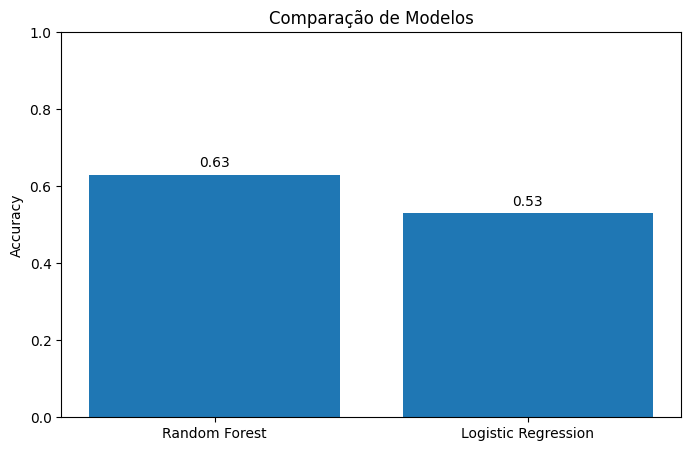
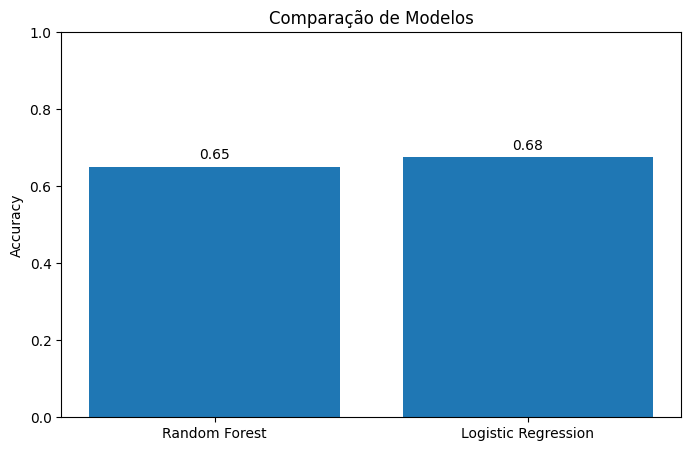
Atualização dashboard e deploy

Changed region(s): [[0.5774, 0.3104, 0.9421, 0.4967], [0.1216, 0.3104, 0.4863, 0.4035]]

diff --git a/src/preprocessamento.py b/src/preprocessamento.py
@@ -1,7 +1,6 @@
 import pandas as pd
 from sklearn.preprocessing import LabelEncoder
 
-
 # ==========================================
 # CARREGAR DADOS
 # ==========================================
@@ -49,38 +48,172 @@ def limpar_dados(df):
 
 def preparar_dados(df):
 
+    # ======================================
+    # REMOVER NULOS
+    # ======================================
+
     df = df.dropna()
 
-    # encoders
-    le_escolaridade = LabelEncoder()
-    le_setor = LabelEncoder()
-    le_regiao = LabelEncoder()
-    le_risco = LabelEncoder()
+    # ======================================
+    # AJUSTAR TEXTO
+    # ======================================
 
-    # transformar categorias em números
-    df["escolaridade"] = le_escolaridade.fit_transform(
+    colunas_texto = [
+        "escolaridade",
+        "setor",
+        "regiao",
+        "risco_automacao"
+    ]
+
+    for coluna in colunas_texto:
+
+        df[coluna] = (
+            df[coluna]
+            .astype(str)
+            .str.strip()
+        )
+
+    # ======================================
+    # CORRIGIR CODIFICAÇÃO
+    # ======================================
+
+    df["escolaridade"] = (
         df["escolaridade"]
+        .replace({
+            "MÃ©dio": "Médio",
+            "TÃ©cnico": "Técnico",
+            "PÃ³s-graduaÃ§Ã£o": "Pós-graduação"
+        })
     )
 
-    df["setor"] = le_setor.fit_transform(
+    df["setor"] = (
         df["setor"]
+        .replace({
+            "LogÃstica": "Logística",
+            "EducaÃ§Ã£o": "Educação",
+            "SaÃºde": "Saúde",
+            "IndÃºstria": "Indústria"
+        })
     )
 
-    df["regiao"] = le_regiao.fit_transform(
-        df["regiao"]
-    )
-
-    df["risco_automacao"] = le_risco.fit_transform(
+    df["risco_automacao"] = (
         df["risco_automacao"]
+        .replace({
+            "MÃ©dio": "Médio"
+        })
     )
+
+    # ======================================
+    # MAPEAR ESCOLARIDADE
+    # ======================================
+
+    escolaridade_map = {
+        "Fundamental": 0,
+        "Médio": 1,
+        "Técnico": 2,
+        "Superior": 3,
+        "Pós-graduação": 4
+    }
+
+    df["escolaridade"] = (
+        df["escolaridade"]
+        .map(escolaridade_map)
+    )
+
+    # ======================================
+    # MAPEAR SETOR
+    # ======================================
+
+    setor_map = {
+        "Administrativo": 0,
+        "Financeiro": 1,
+        "Logística": 2,
+        "Tecnologia": 3,
+        "Saúde": 4,
+        "Educação": 5,
+        "Indústria": 6
+    }
+
+    df["setor"] = (
+        df["setor"]
+        .map(setor_map)
+    )
+
+    # ======================================
+    # MAPEAR REGIÃO
+    # ======================================
+
+    regiao_map = {
+        "Norte": 0,
+        "Nordeste": 1,
+        "Centro-Oeste": 2,
+        "Sudeste": 3,
+        "Sul": 4
+    }
+
+    df["regiao"] = (
+        df["regiao"]
+        .map(regiao_map)
+    )
+
+    # ======================================
+    # MAPEAR RISCO
+    # ======================================
+
+    risco_map = {
+        "Baixo": 0,
+        "Médio": 1,
+        "Alto": 2
+    }
+
+    df["risco_automacao"] = (
+        df["risco_automacao"]
+        .map(risco_map)
+    )
+
+    # ======================================
+    # REMOVER NAN APÓS MAPEAMENTO
+    # ======================================
+
+    df = df.dropna(
+        subset=[
+            "escolaridade",
+            "setor",
+            "regiao",
+            "risco_automacao"
+        ]
+    )
+
+    # ======================================
+    # CONVERTER PARA INT
+    # ======================================
+
+    df["escolaridade"] = (
+        df["escolaridade"]
+        .astype(int)
+    )
+
+    df["setor"] = (
+        df["setor"]
+        .astype(int)
+    )
+
+    df["regiao"] = (
+        df["regiao"]
+        .astype(int)
+    )
+
+    df["risco_automacao"] = (
+        df["risco_automacao"]
+        .astype(int)
+    )
+
+    # ======================================
+    # NOVAS FEATURES
+    # ======================================
 
     df["indice"] = (
-        df["risco_automacao"]
-        .map({
-            "Baixo": 20,
-            "Médio": 50,
-            "Alto": 80
-        })
+        df["risco_automacao"] * 40
     )
 
     df["crescimento"] = (

diff --git a/src/treinamento_modelo.py b/src/treinamento_modelo.py
@@ -1,12 +1,15 @@
-from sklearn.model_selection import train_test_split
-from sklearn.ensemble import RandomForestClassifier
-from sklearn.preprocessing import LabelEncoder
-from sklearn.metrics import classification_report
-import joblib
 import os
+import joblib
+import pandas as pd
+
+from sklearn.ensemble import RandomForestClassifier
+from sklearn.model_selection import train_test_split
+from sklearn.metrics import classification_report
+
+from preprocessamento import preparar_dados
 
 # ==========================================
-# FEATURES REAIS DO DATASET
+# FEATURES
 # ==========================================
 
 FEATURES = [
@@ -24,36 +27,28 @@ FEATURES = [
 
 def treinar_modelo(df):
 
-    # encoders
-    le_escolaridade = LabelEncoder()
-    le_setor = LabelEncoder()
-    le_regiao = LabelEncoder()
-    le_risco = LabelEncoder()
+    # ======================================
+    # PREPARAR DADOS
+    # ======================================
 
-    # transformar texto em número
-    df["escolaridade"] = le_escolaridade.fit_transform(
-        df["escolaridade"]
-    )
+    df = preparar_dados(df)
 
-    df["setor"] = le_setor.fit_transform(
-        df["setor"]
-    )
+    # DEBUG
+    print("\nColunas disponíveis:")
+    print(df.columns.tolist())
 
-    df["regiao"] = le_regiao.fit_transform(
-        df["regiao"]
-    )
+    # ======================================
+    # X E Y
+    # ======================================
 
-    df["risco_automacao"] = le_risco.fit_transform(
-        df["risco_automacao"]
-    )
-
-    # features
     X = df[FEATURES]
 
-    # target
     y = df["risco_automacao"]
 
-    # split
+    # ======================================
+    # SPLIT
+    # ======================================
+
     X_train, X_test, y_train, y_test = train_test_split(
         X,
         y,
@@ -61,7 +56,10 @@ def treinar_modelo(df):
         random_state=42
     )
 
-    # modelo
+    # ======================================
+    # MODELO
+    # ======================================
+
     modelo = RandomForestClassifier(
         n_estimators=100,
         random_state=42
@@ -69,9 +67,14 @@ def treinar_modelo(df):
 
     modelo.fit(X_train, y_train)
 
+    # ======================================
+    # PREVISÃO
+    # ======================================
+
     y_pred = modelo.predict(X_test)
 
     print("\nRelatório:")
+
     print(
         classification_report(
             y_test,
@@ -79,13 +82,15 @@ def treinar_modelo(df):
         )
     )
 
-    # criar pasta
+    # ======================================
+    # SALVAR MODELO
+    # ======================================
+
     os.makedirs(
         "output/modelos",
         exist_ok=True
     )
 
-    # salvar modelo
     joblib.dump(
         modelo,
         "output/modelos/random_forest.pkl"
@@ -93,4 +98,10 @@ def treinar_modelo(df):
 
     print("\nModelo salvo com sucesso!")
 
-    return modelo, X_test, y_test, y_pred, X
+    return (
+        modelo,
+        X_test,
+        y_test,
+        y_pred,
+        X
+    )